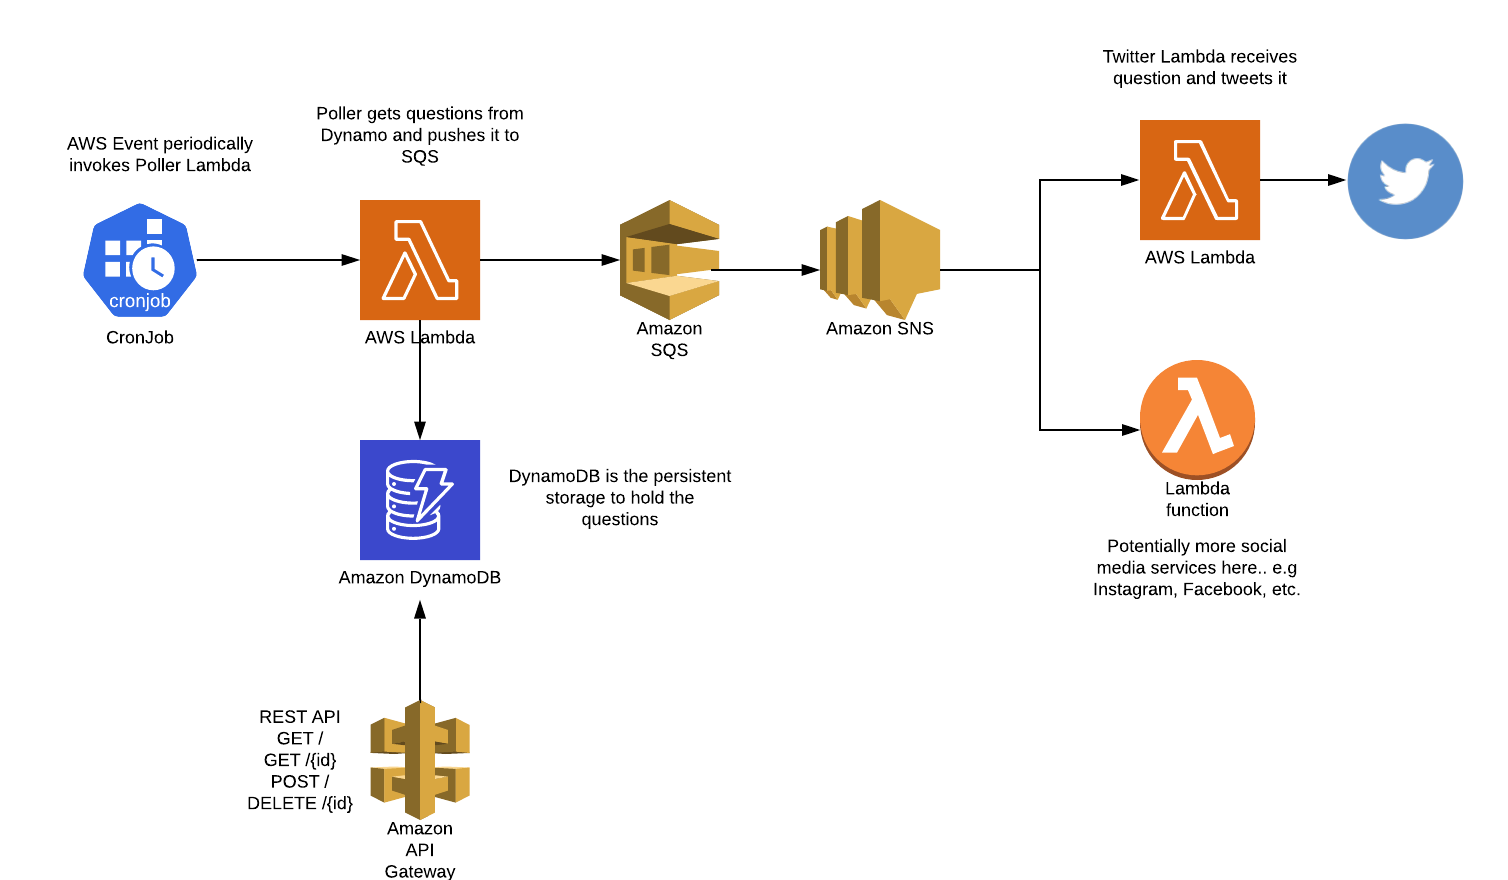
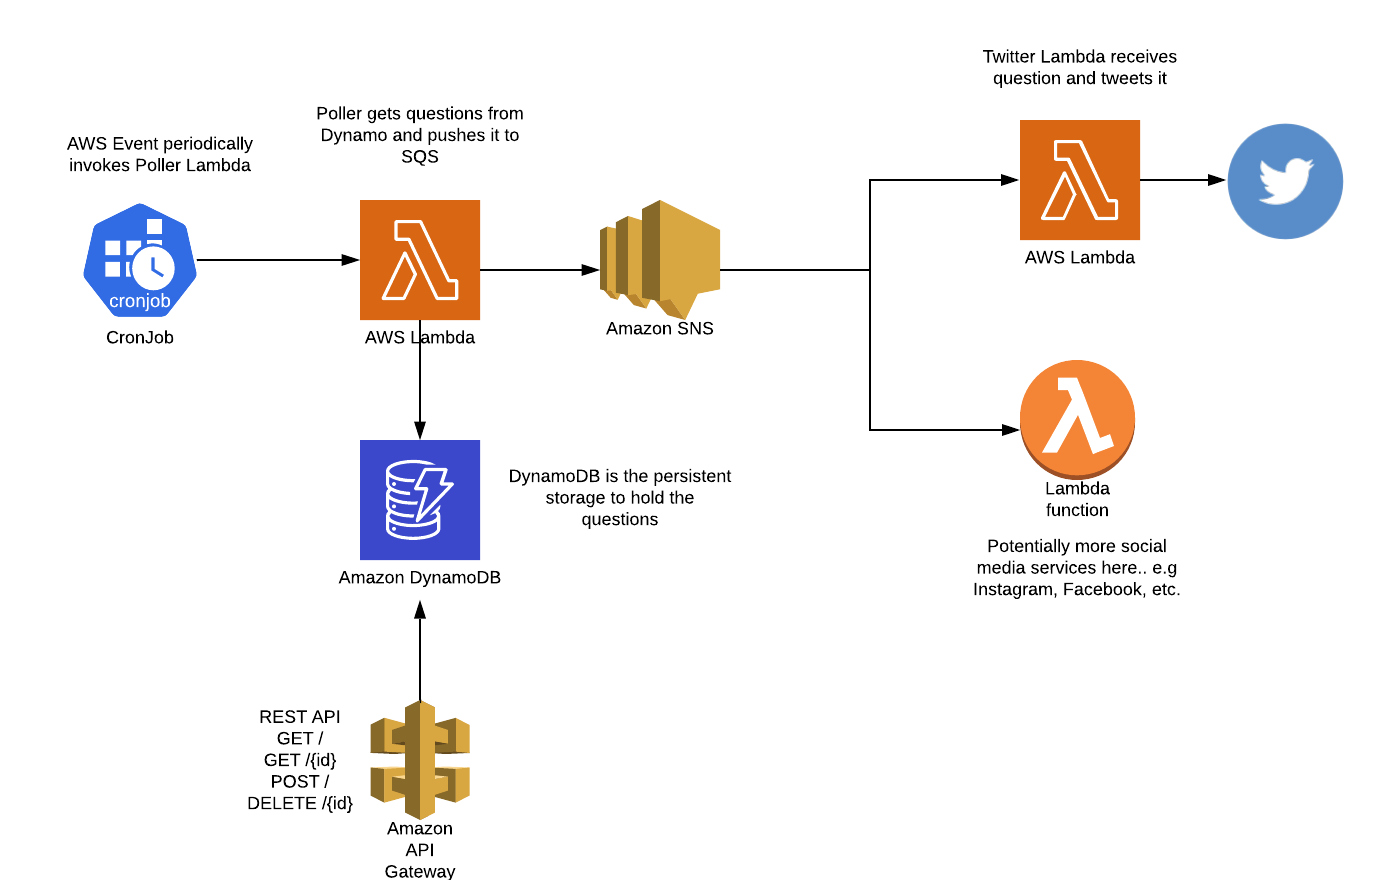
remove sqs, use only sns

diff --git a/functions/poller/main.go b/functions/poller/main.go
@@ -4,8 +4,8 @@ import (
 	"context"
 	"errors"
 	"fmt"
-	"github.com/aws/aws-sdk-go/service/sqs"
-	"github.com/aws/aws-sdk-go/service/sqs/sqsiface"
+	"github.com/aws/aws-sdk-go/service/sns"
+	"github.com/aws/aws-sdk-go/service/sns/snsiface"
 	"os"
 	"strings"
 
@@ -20,8 +20,8 @@ import (
 // Handler contains everything needed to execute this lambda
 type Handler struct {
 	poller   question.Poller
-	sqs      sqsiface.SQSAPI
-	queueArn string
+	snsAPI   snsiface.SNSAPI
+	topicArn string
 }
 
 // Handle polls for a question and returns it
@@ -35,20 +35,12 @@ func (h *Handler) handle(ctx context.Context) error {
 		return fmt.Errorf("unable to poll for new question: %w", err)
 	}
 
-	queueName := getQueueName(h.queueArn)
-	queueUrlOutput, err := h.sqs.GetQueueUrlWithContext(ctx, &sqs.GetQueueUrlInput{
-		QueueName: aws.String(queueName),
+	_, err = h.snsAPI.PublishWithContext(ctx, &sns.PublishInput{
+		Message:  aws.String(q.Question),
+		TopicArn: aws.String(h.topicArn),
 	})
 	if err != nil {
-		return fmt.Errorf("unable to get queue url from queue name %v: %w", queueName, err)
-	}
-
-	_, err = h.sqs.SendMessageWithContext(ctx, &sqs.SendMessageInput{
-		MessageBody: aws.String(q.Question),
-		QueueUrl:    queueUrlOutput.QueueUrl,
-	})
-	if err != nil {
-		return fmt.Errorf("unable to send message to sqs: %w", err)
+		return fmt.Errorf("unable to publish message to sns topic %v: %w", h.topicArn, err)
 	}
 	return nil
 }
@@ -71,11 +63,11 @@ func main() {
 
 	s := session.Must(session.NewSession(aws.NewConfig()))
 	poller := createQuestionPoller(s, "questions")
-	sqsclient := sqs.New(s)
+	snsAPI := sns.New(s)
 	handler := Handler{
 		poller:   poller,
-		sqs:      sqsclient,
-		queueArn: os.Getenv("QUESTIONS_QUEUE"),
+		snsAPI:   snsAPI,
+		topicArn: os.Getenv("QUESTIONS_TOPIC"),
 	}
 	lambda.Start(handler.handle)
 }

diff --git a/functions/poller/main_test.go b/functions/poller/main_test.go
@@ -2,9 +2,11 @@ package main
 
 import (
 	"context"
+	"github.com/aws/aws-sdk-go/aws"
+	"github.com/aws/aws-sdk-go/aws/request"
 	"github.com/aws/aws-sdk-go/awstesting/mock"
-	"github.com/aws/aws-sdk-go/service/sqs"
-	"github.com/aws/aws-sdk-go/service/sqs/sqsiface"
+	"github.com/aws/aws-sdk-go/service/sns"
+	"github.com/aws/aws-sdk-go/service/sns/snsiface"
 	"github.com/raymonstah/bigtalk/domain/question"
 	"github.com/tj/assert"
 	"testing"
@@ -24,17 +26,17 @@ func (m mockPoller) Poll(ctx context.Context) (question.Question, error) {
 	}, nil
 }
 
-type mockSQS struct{ sqsiface.SQSAPI }
+type mockSNS struct{ snsiface.SNSAPI }
 
-func (m *mockSQS) SendMessage(*sqs.SendMessageInput) (*sqs.SendMessageOutput, error) {
+func (m *mockSNS) PublishWithContext(aws.Context, *sns.PublishInput, ...request.Option) (*sns.PublishOutput, error) {
 	return nil, nil
 }
 
 func TestHandle(t *testing.T) {
 	handler := Handler{
 		poller:   &mockPoller{},
-		sqs:      &mockSQS{},
-		queueArn: "question-queue",
+		snsAPI:   &mockSNS{},
+		topicArn: "question-queue",
 	}
 	ctx := context.Background()
 	err := handler.handle(ctx)
@@ -44,26 +46,4 @@ func TestHandle(t *testing.T) {
 func TestCreateQuestionPoller(t *testing.T) {
 	poller := createQuestionPoller(mock.Session, "question")
 	assert.NotNil(t, poller)
-}
-
-func Test_getQueueName(t *testing.T) {
-
-	tests := []struct {
-		name string
-		arn  string
-		want string
-	}{
-		{
-			name: "tc1",
-			arn:  "arn:aws:sqs:us-west-2:261565112082:bt-stack-QuestionsQueue-HLC1N6GZZD25",
-			want: "bt-stack-QuestionsQueue-HLC1N6GZZD25",
-		},
-	}
-	for _, tt := range tests {
-		t.Run(tt.name, func(t *testing.T) {
-			if got := getQueueName(tt.arn); got != tt.want {
-				t.Errorf("getQueueName() = %v, want %v", got, tt.want)
-			}
-		})
-	}
 }

diff --git a/functions/poster/main_test.go b/functions/poster/main_test.go
@@ -2,11 +2,12 @@ package main
 
 import (
 	"context"
+	"github.com/aws/aws-lambda-go/events"
 	"github.com/raymonstah/bigtalk/domain/poster"
 	"github.com/tj/assert"
 	"testing"
+	"time"
 )
-
 
 type mockPoster struct {
 	poster.Poster
@@ -20,7 +21,23 @@ func TestHandle(t *testing.T) {
 	p := &mockPoster{}
 	handler := Handler{poster: p}
 	ctx := context.Background()
-	err := handler.handle(ctx, Event{Question: "How are you doing today?"})
+	err := handler.handle(ctx, events.SNSEvent{Records: []events.SNSEventRecord{
+		{
+			SNS: events.SNSEntity{
+				Signature:         "",
+				MessageID:         "",
+				Type:              "",
+				TopicArn:          "",
+				MessageAttributes: nil,
+				SignatureVersion:  "",
+				Timestamp:         time.Time{},
+				SigningCertURL:    "",
+				Message:           "",
+				UnsubscribeURL:    "",
+				Subject:           "",
+			},
+		},
+	}})
 	assert.Nil(t, err)
 }
 

diff --git a/functions/poster/main.go b/functions/poster/main.go
@@ -3,6 +3,7 @@ package main
 import (
 	"context"
 	"fmt"
+	"github.com/aws/aws-lambda-go/events"
 	"github.com/aws/aws-lambda-go/lambda"
 	"github.com/raymonstah/bigtalk/domain/poster"
 	"github.com/raymonstah/bigtalk/domain/poster/twitter"
@@ -18,11 +19,17 @@ type Handler struct {
 	poster poster.Poster
 }
 
-func (h *Handler) handle(ctx context.Context, input Event) error {
-	err := h.poster.Post(ctx, []byte(input.Question))
-	if err != nil {
-		return fmt.Errorf("error posting: %w", err)
+func (h *Handler) handle(ctx context.Context, event events.SNSEvent) error {
+	for _, record := range event.Records{
+		message := record.SNS.Message
+		fmt.Println(message)
+		break
+		//err := h.poster.Post(ctx, []byte(event.Question))
+		//if err != nil {
+		//	return fmt.Errorf("error posting: %w", err)
+		//}
 	}
+
 	return nil
 }
 

diff --git a/build/pipeline.go b/build/pipeline.go
@@ -12,6 +12,7 @@ import (
 	"github.com/urfave/cli"
 	"gopkg.in/yaml.v2"
 	"io/ioutil"
+	"log"
 	"os"
 	"regexp"
 	"sort"
@@ -85,7 +86,8 @@ func action(_ *cli.Context) error {
 	)
 
 	if config.skipLambda {
-		// get lambda ids
+		log.Fatal("whoops, skip lambda not implemented")
+		// todo get lambda ids
 	}
 
 	lambdaVersions, err := uploadLambdas(ctx, s3API, config.dir)
